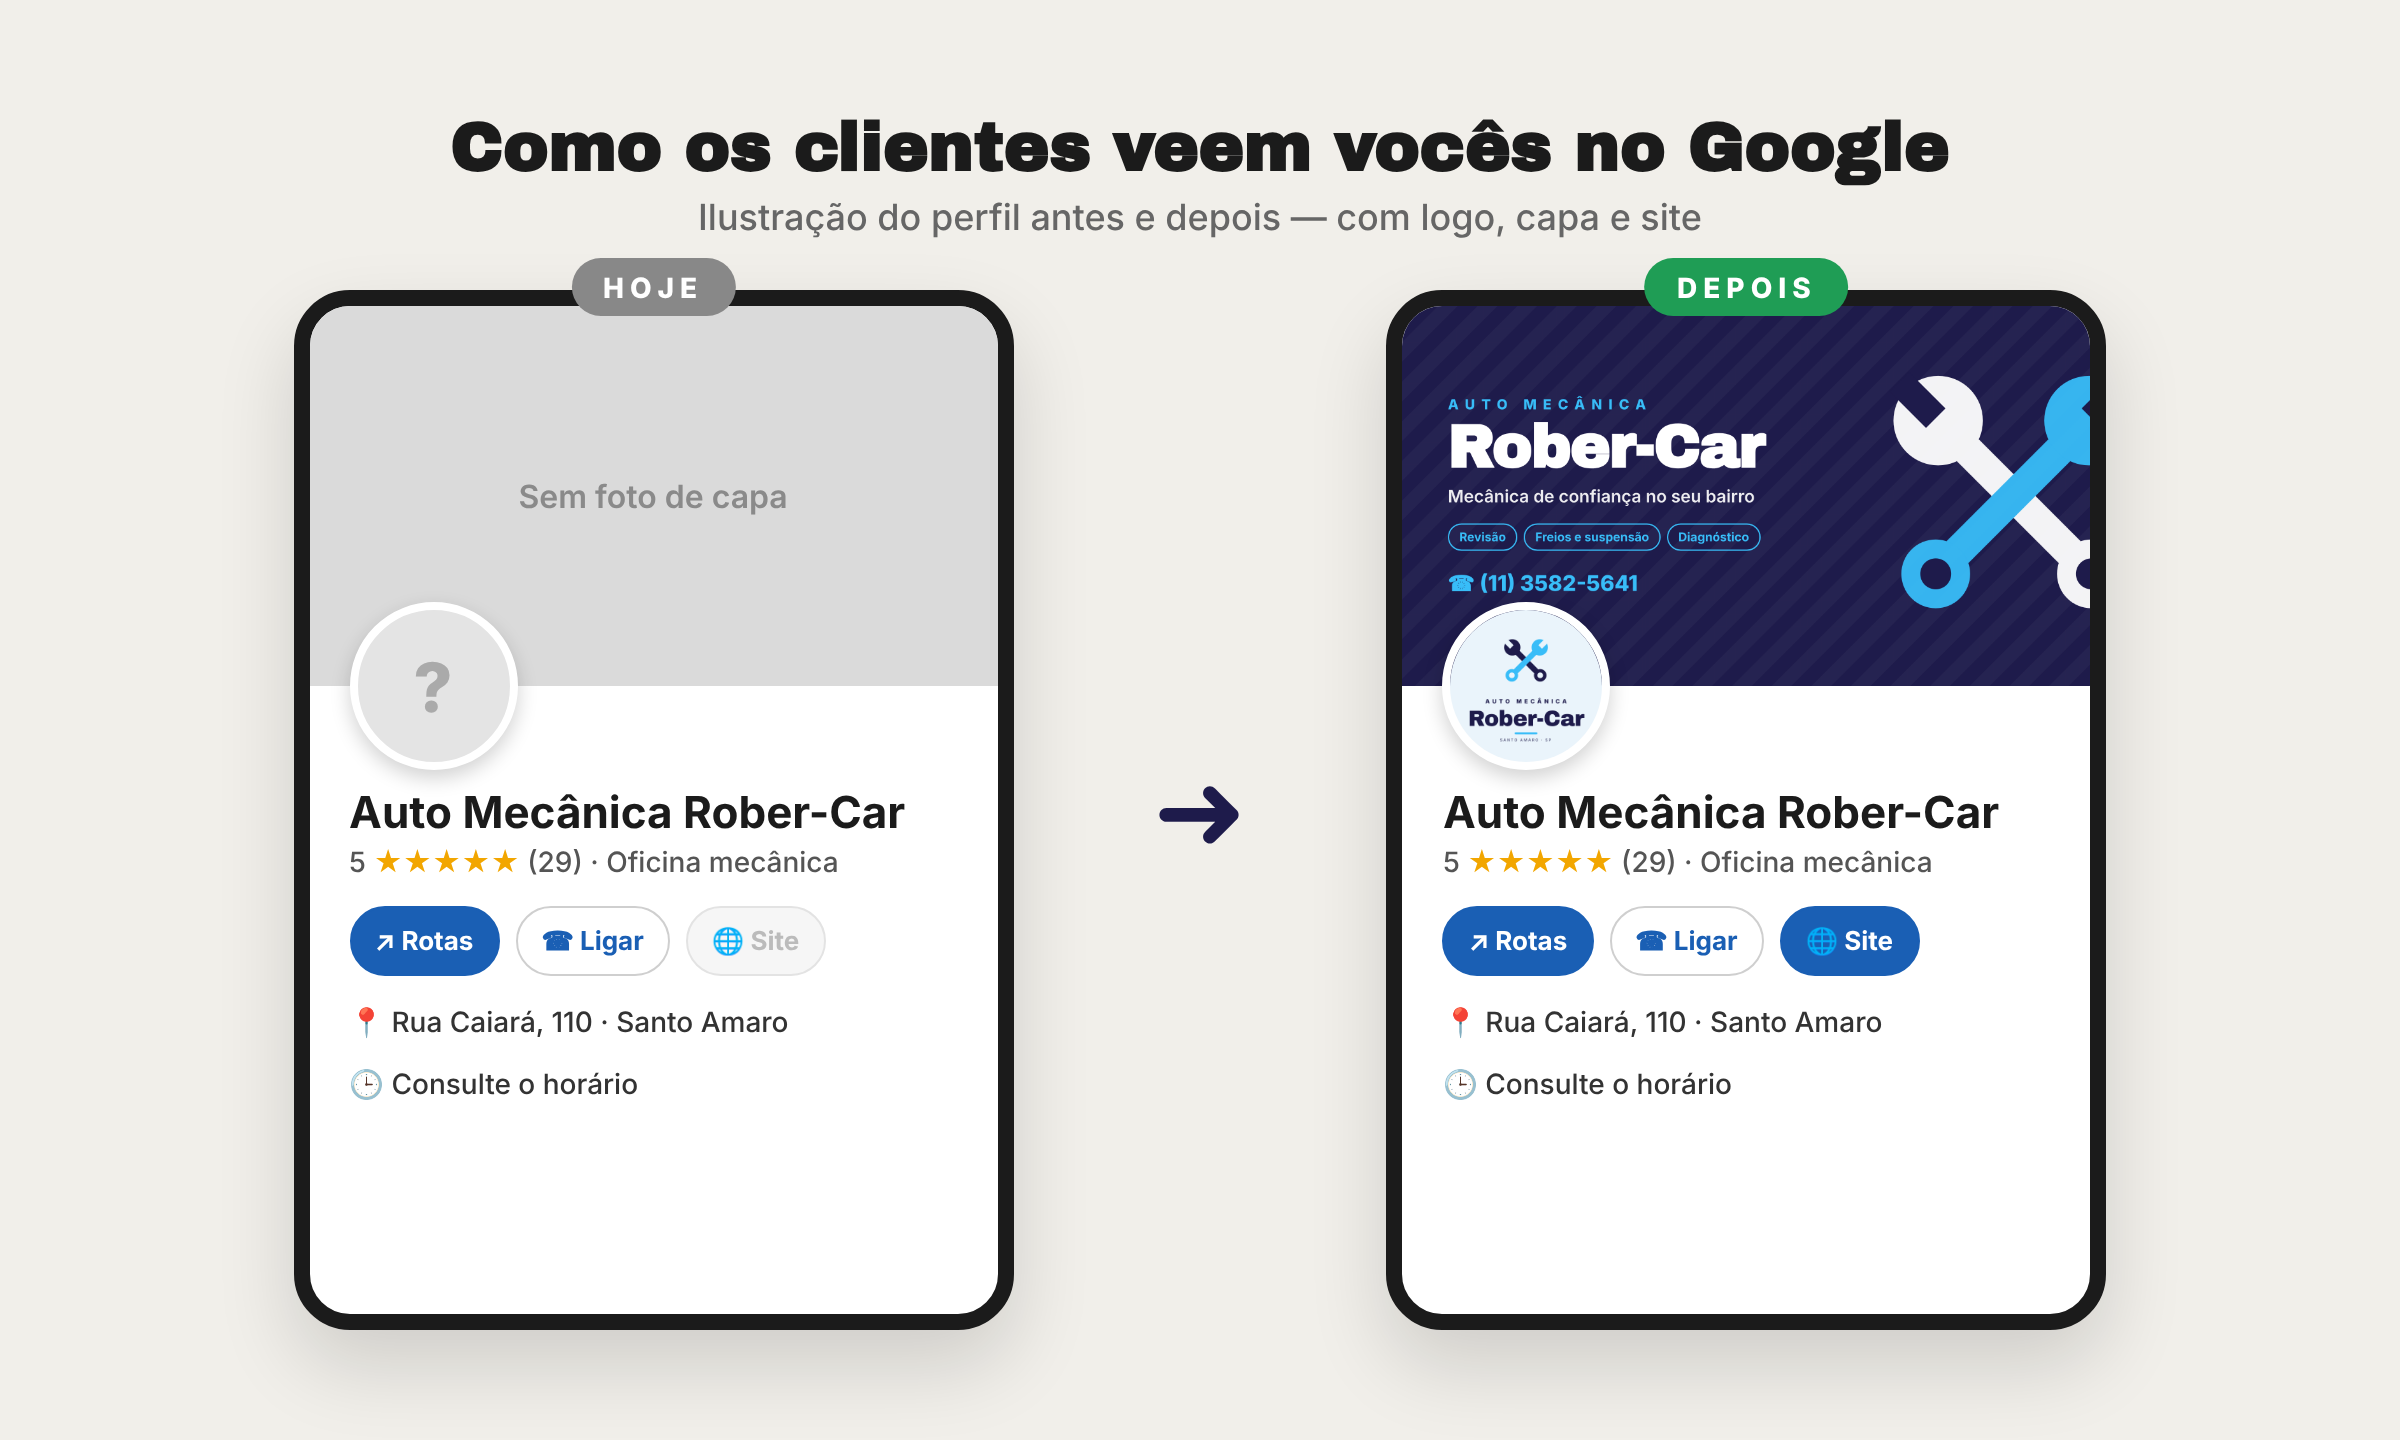
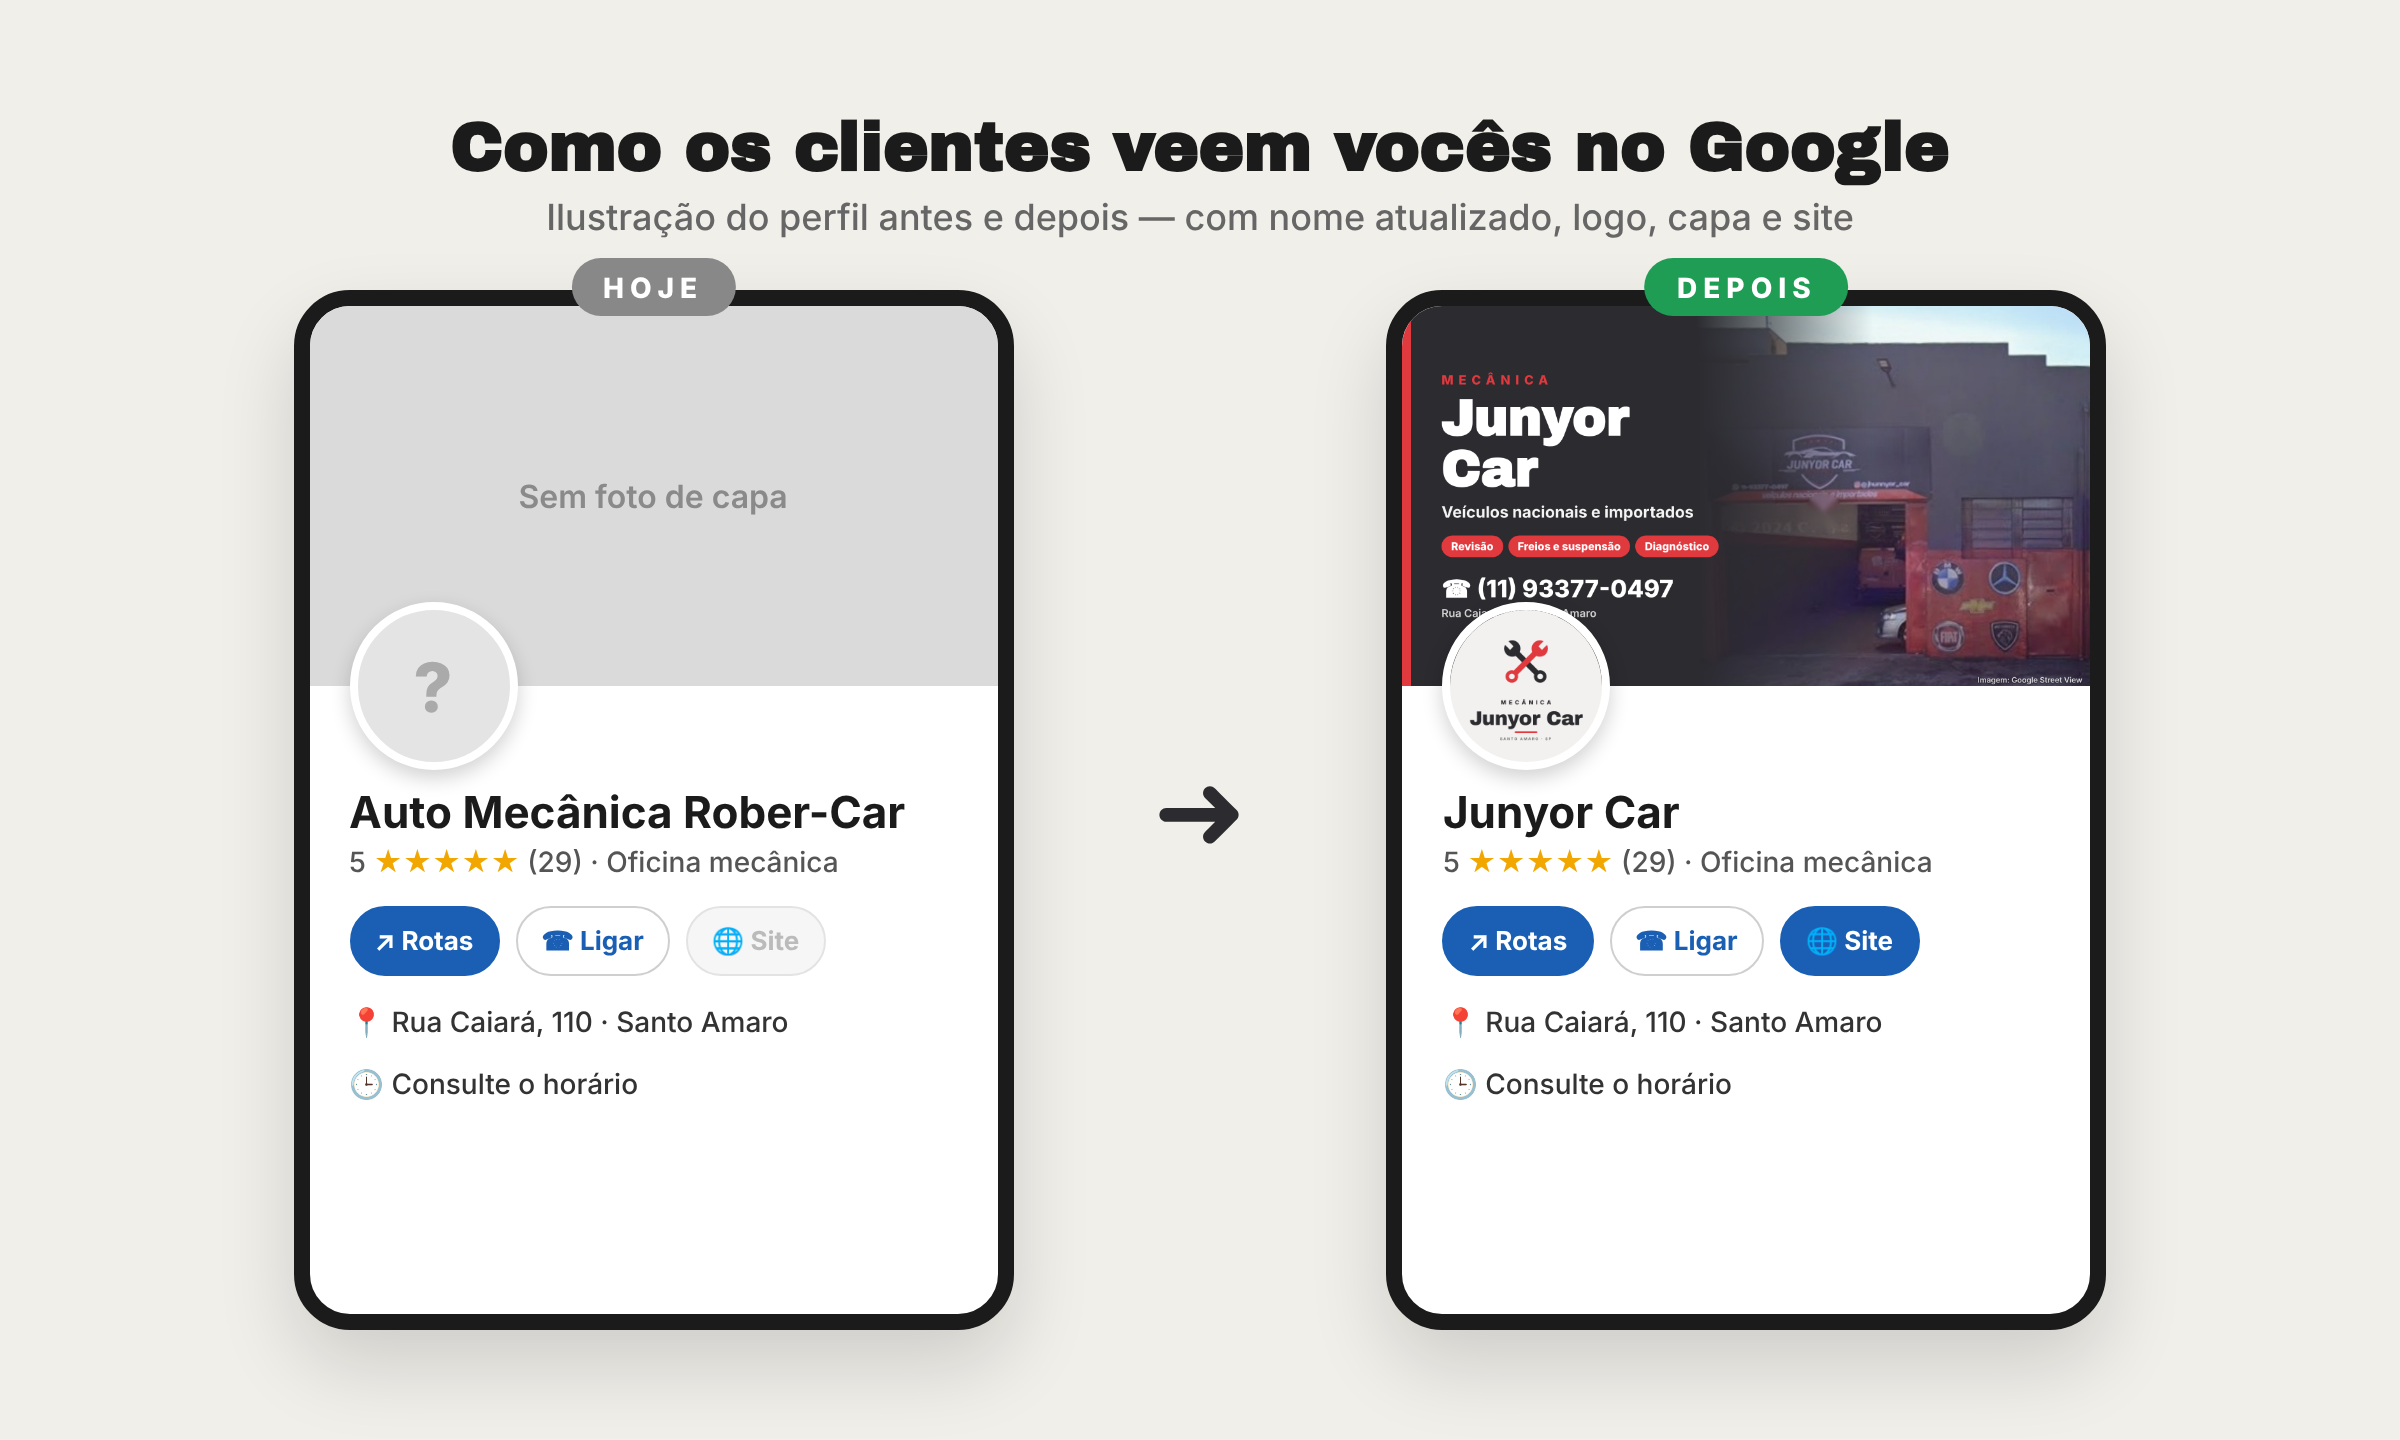
Add files via upload

Changed region(s): [[0.2188, 0.125, 0.875, 0.5938], [0.4688, 0.5312, 0.5312, 0.5938]]

diff --git a/auto-mecanica-rober-car.html b/auto-mecanica-rober-car.html
@@ -1,6 +1,6 @@
 <!DOCTYPE html><html lang="pt-BR"><head><meta charset="utf-8"><meta name="viewport" content="width=device-width,initial-scale=1">
-<title>Auto Mecânica Rober-Car — como ficaria no Google</title>
-<meta property="og:title" content="Auto Mecânica Rober-Car — como ficaria no Google">
+<title>Junyor Car — como ficaria no Google</title>
+<meta property="og:title" content="Junyor Car — como ficaria no Google">
 <meta property="og:description" content="Proposta de logo e capa para o perfil de vocês no Google Maps.">
 <meta property="og:image" content="https://michel-81.github.io/esbo-os/auto-mecanica-rober-car-antes-depois.png"><meta property="og:type" content="website">
 <style>body{margin:0;font-family:system-ui,Arial,sans-serif;background:#F1EFEA;color:#1b1b1b}main{max-width:980px;margin:0 auto;padding:20px}
@@ -8,9 +8,9 @@ h1{font-size:24px;margin:10px 0 4px}p{color:#555;margin:0 0 16px}img{width:100%;
 .duo{display:grid;grid-template-columns:1fr 1.78fr;gap:14px}@media(max-width:640px){.duo{grid-template-columns:1fr}}
 h2{font-size:17px;margin:22px 0 8px}.cta{display:inline-block;background:#25D366;color:#fff;text-decoration:none;font-weight:700;padding:14px 20px;border-radius:12px;margin:8px 0 30px}
 small{color:#888}</style></head><body><main>
-<h1>Auto Mecânica Rober-Car</h1><p>Proposta para deixar o perfil de vocês no Google mais completo: logo, foto de capa e site.</p>
+<h1>Junyor Car</h1><p>Proposta para deixar o perfil de vocês no Google mais completo: logo, foto de capa e site.</p>
 <img src="auto-mecanica-rober-car-antes-depois.png" alt="Antes e depois do perfil no Google">
 <h2>Logo e capa propostos</h2><div class="duo"><img src="auto-mecanica-rober-car-logo.png" alt="Logo"><img src="auto-mecanica-rober-car-capa.png" alt="Capa"></div>
-<a class="cta" href="https://wa.me/5511973370855?text=Ol%C3%A1%20Michel%21%20Vi%20a%20proposta%20para%20a%20Auto%20Mec%C3%A2nica%20Rober-Car%20e%20quero%20saber%20mais.">💬 Quero colocar no meu perfil</a>
+<a class="cta" href="https://wa.me/5511973370855?text=Ol%C3%A1%20Michel%21%20Vi%20a%20proposta%20para%20a%20Junyor%20Car%20e%20quero%20saber%20mais.">💬 Quero colocar no meu perfil</a>
 <p><small>Proposta preparada por Michel Orlow · (11) 97337-0855. Material de demonstração — nada foi alterado no perfil de vocês.</small></p>
 </main></body></html>
